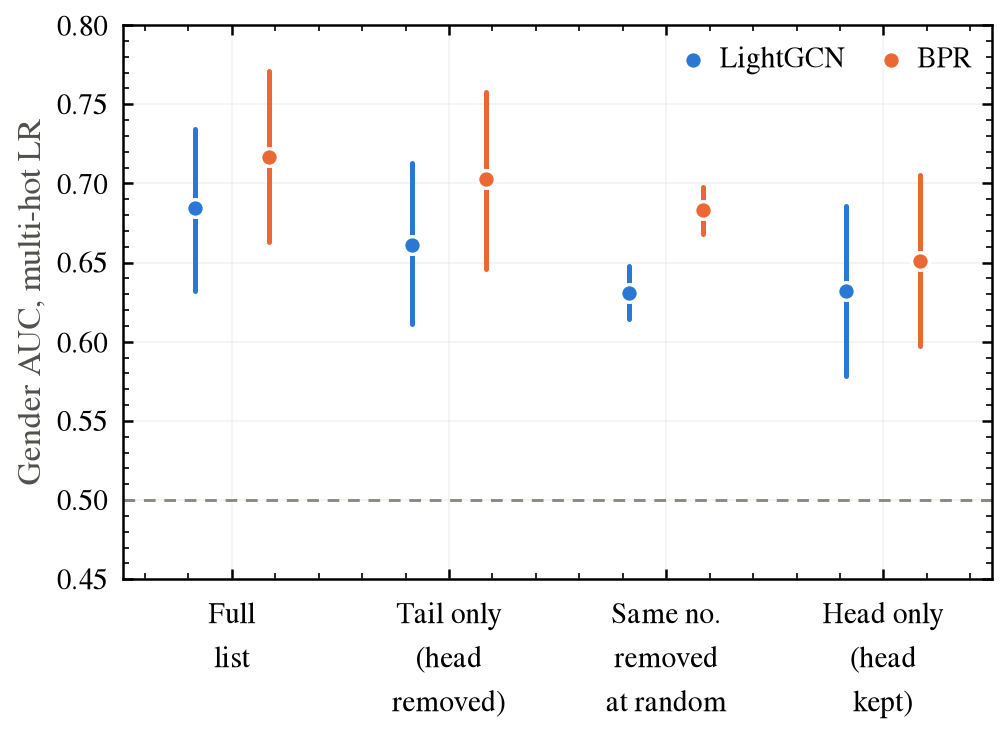
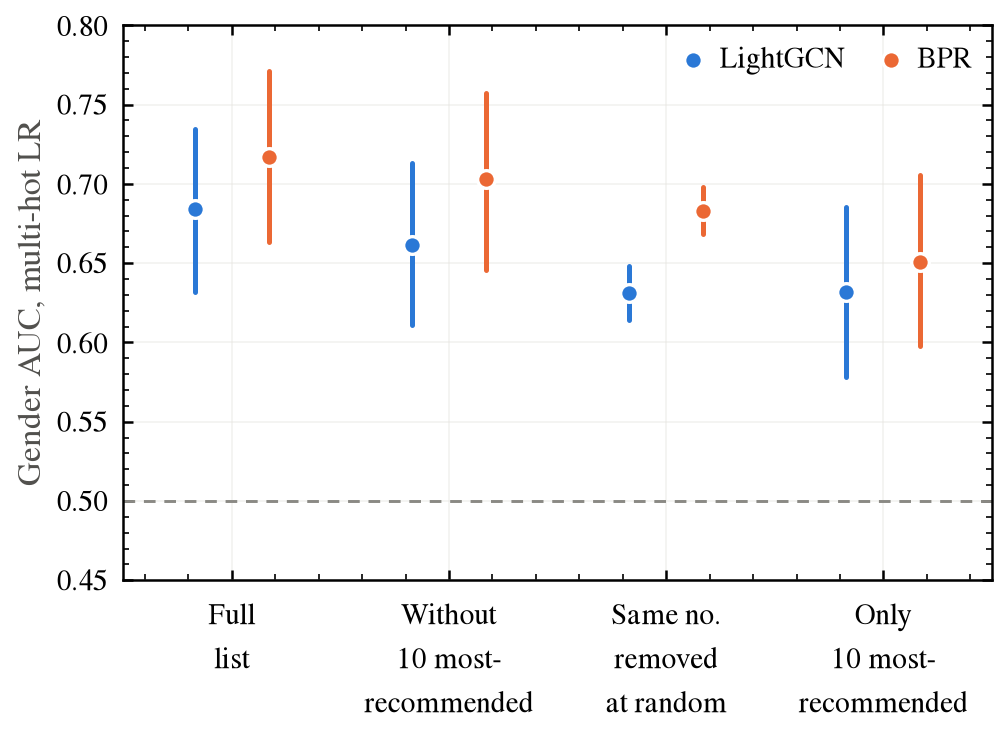
Figure 4 labels and README table numbers match the final report

diff --git a/src/report/report_figures.py b/src/report/report_figures.py
@@ -215,8 +215,8 @@ def fig_classifiers(out: Path) -> None:
 
 # ------------------------------------------------------------------ 06 popularity (single column)
 def fig_popularity(out: Path) -> None:
-    arms = [("full", "Full\nlist"), ("tail_only", "Tail only\n(head\nremoved)"),
-            ("random_ablation", "Same no.\nremoved\nat random"), ("head_only", "Head only\n(head\nkept)")]
+    arms = [("full", "Full\nlist"), ("tail_only", "Without\n10 most-\nrecommended"),
+            ("random_ablation", "Same no.\nremoved\nat random"), ("head_only", "Only\n10 most-\nrecommended")]
     fig, ax = plt.subplots(figsize=(COL_W, 2.45))
     w = 0.34
     for k, (run, color, name) in enumerate(((LGCN, C_LGCN, "LightGCN"), (BPR, C_BPR, "BPR"))):

diff --git a/README.md b/README.md
@@ -105,17 +105,16 @@ The commands below use the BPR run (`EXP-003_bpr_d32_311`); the LightGCN run
 | Figure 9 | Neutral vs gender prompt | `report_figures --only 10_neutral_vs_gender` | `EXP-006_llmrec_311/*_req20_*_unseen/` |
 | Figure 10 | How the gender prompt changes the lists | `report_figures --only 11_romance_shift` | `EXP-006_llmrec_311/*_req20_*_unseen/lists.jsonl` |
 | Figure 11 | Gender AUC by age group | `report_figures --only 12_age_slices` | `age_slices/age_slices.json` (`src.report.age_slice_table`) |
-| Table 1 | Attacker tiers | written by hand | — |
-| Table 2 | ML-1M statistics | `src.preprocess.ml1m` | `data/ml-1m-311/stats.json` |
-| Table 3 | Effectiveness and women − men gap | `report_tables` (`effectiveness`) | `runs/effectiveness_by_gender/` |
-| Table 4 | List concentration | `report_tables` (`concentration`) | `lists*.jsonl` |
-| Table 5 | AUC of every recommender and tier | `src.report.appendix_table --latex ...` | all of the above |
+| Table 1 | ML-1M statistics | `src.preprocess.ml1m` | `data/ml-1m-311/stats.json` |
+| Table 2 | Effectiveness and women − men gap | `report_tables` (`effectiveness`) | `runs/effectiveness_by_gender/` |
+| Table 3 | List concentration | `report_tables` (`concentration`) | `lists*.jsonl` |
+| Table 4 | AUC of every recommender and tier | `src.report.appendix_table --latex ...` | all of the above |
+| Table 5 | Effectiveness change, neutral → gender | `report_tables` (`effectiveness_change`) | `runs/effectiveness_by_gender/` |
 | Table 6 | LLM non-answers | `report_tables` (`nonanswers`) | `llm_aia/preds_*.jsonl` |
-| Table 7 | Effectiveness change, neutral → gender | `report_tables` (`effectiveness_change`) | `runs/effectiveness_by_gender/` |
 | Section 5.3.3 | Genre gaps between women's and men's lists | `report_tables` (`genre_gaps`) | `lists.jsonl` |
 
 `report_figures` writes each figure as `docs/report_figs/<name>.pdf`; the report includes them
-from `figs/`. Some tables were shortened by hand in the report (e.g. Table 3 without the CIs).
+from `figs/`. Some tables were shortened by hand in the report (e.g. Table 2 without the CIs).
 
 ## Repository layout
 
@@ -134,7 +133,7 @@ runs/
   EXP-003_bpr_d32_311/        BPR: aggregate results of every attack
   EXP-004_lightgcn_d32_311/   LightGCN: same structure
   EXP-006_llmrec_311/         LLM recommender: attack summaries
-  effectiveness_by_gender/    HR@10 / NDCG@10 by gender (Tables 3 and 7)
+  effectiveness_by_gender/    HR@10 / NDCG@10 by gender (Tables 2 and 5)
 docs/               the report's figures (report_figs/) and tables (report_tables/)
 ```
 
